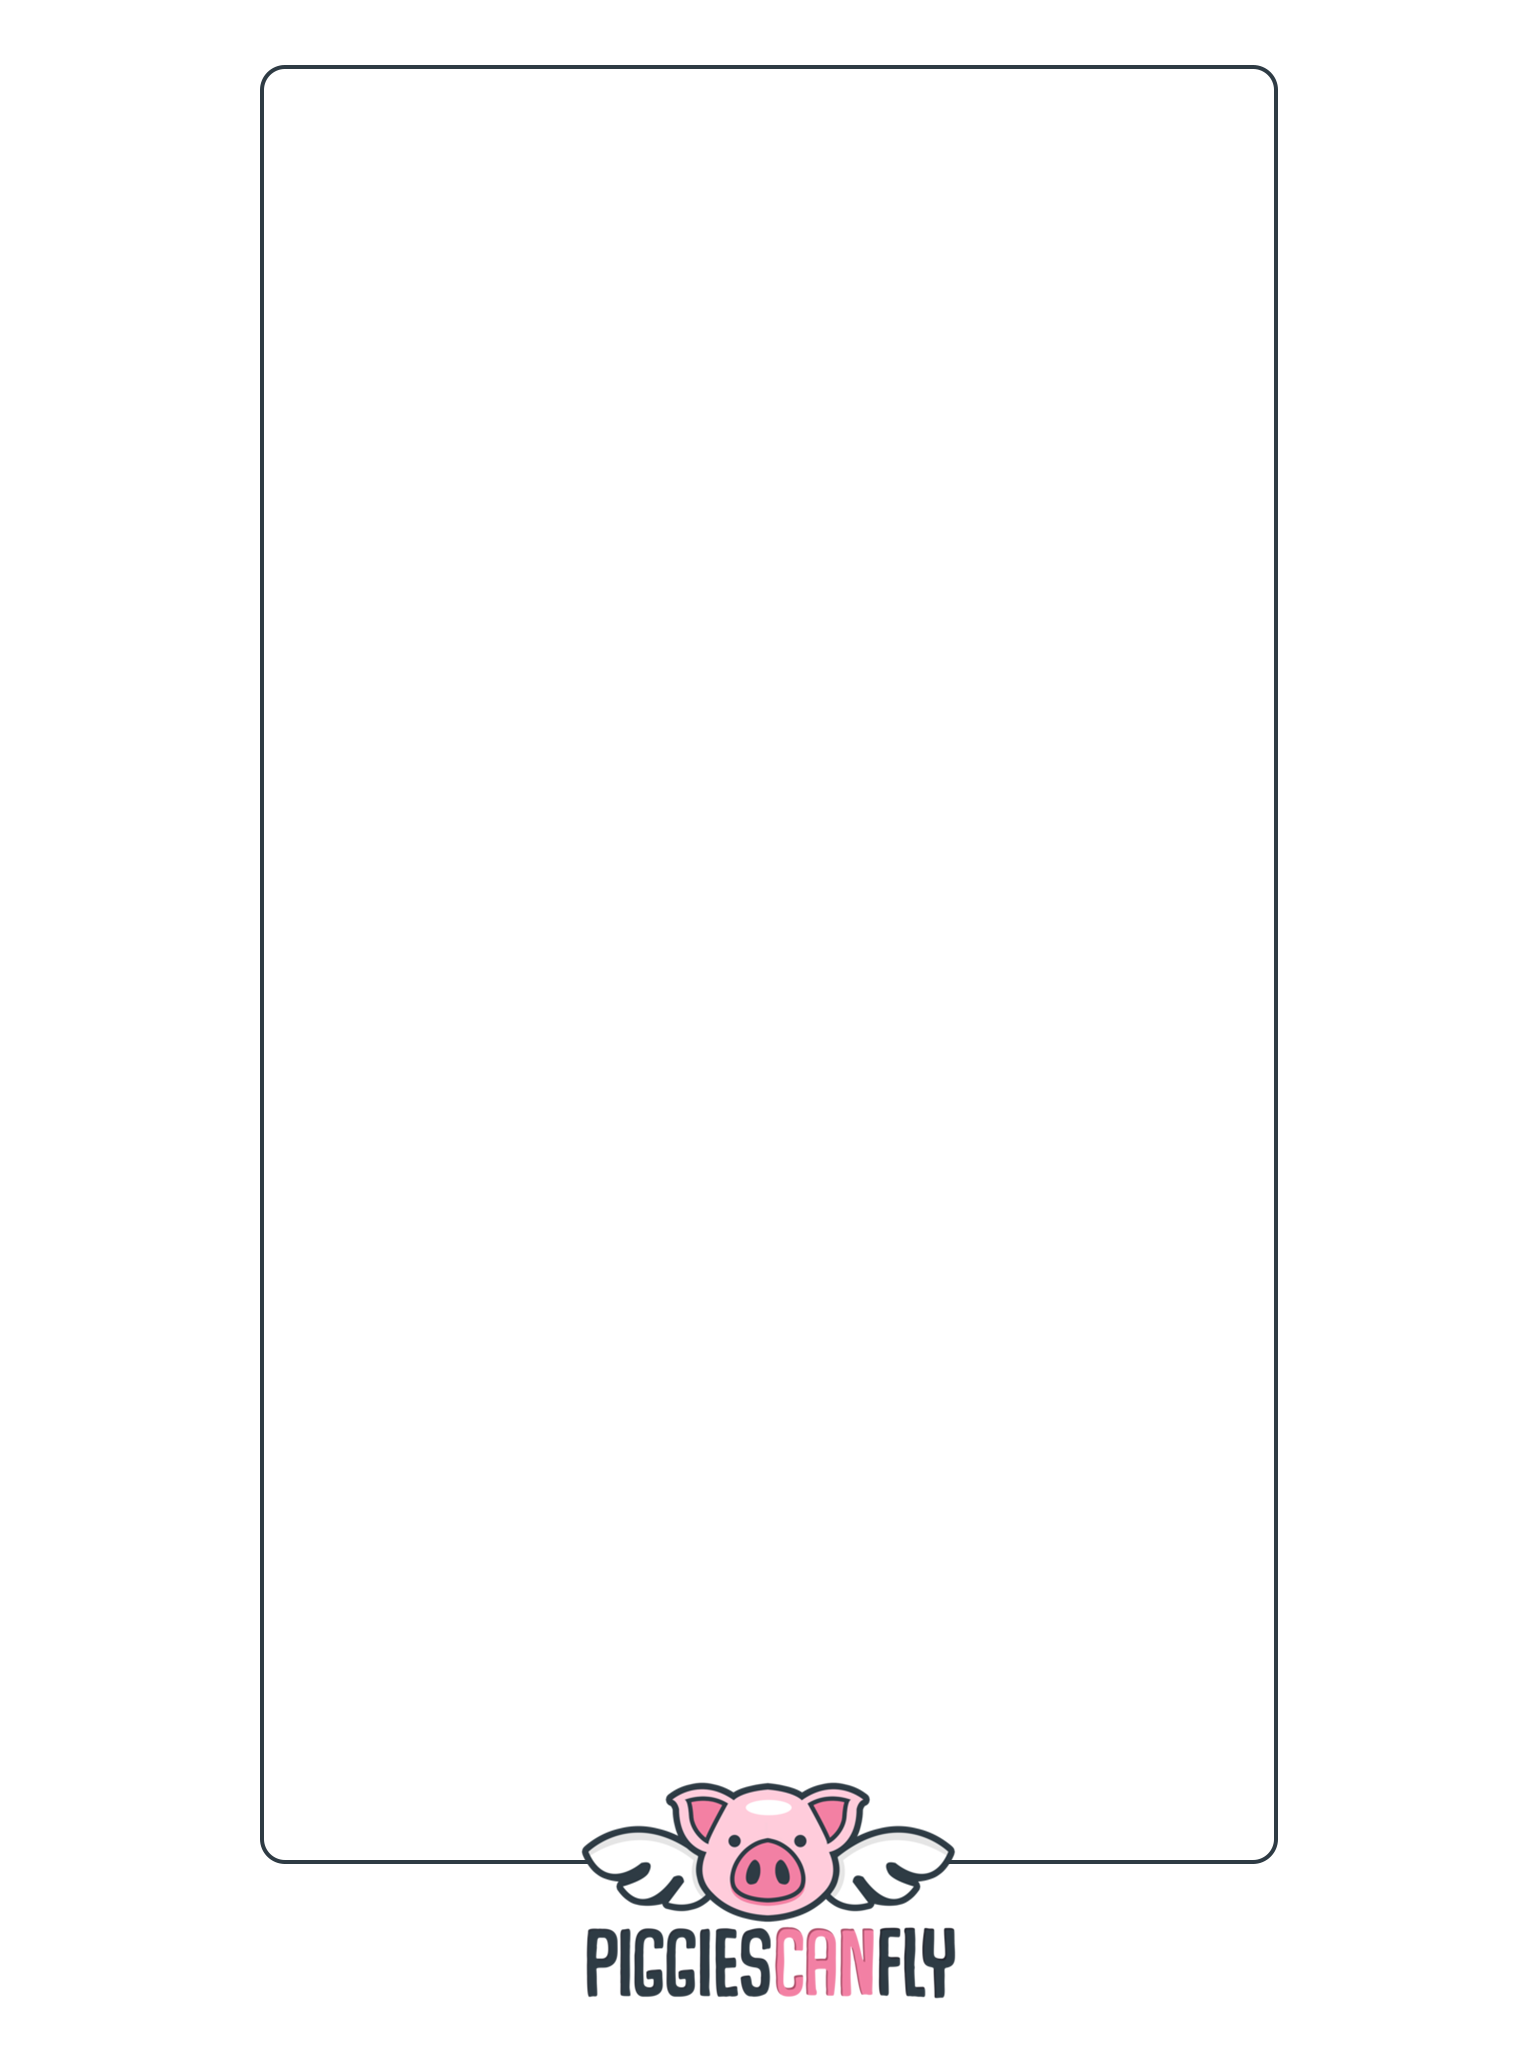
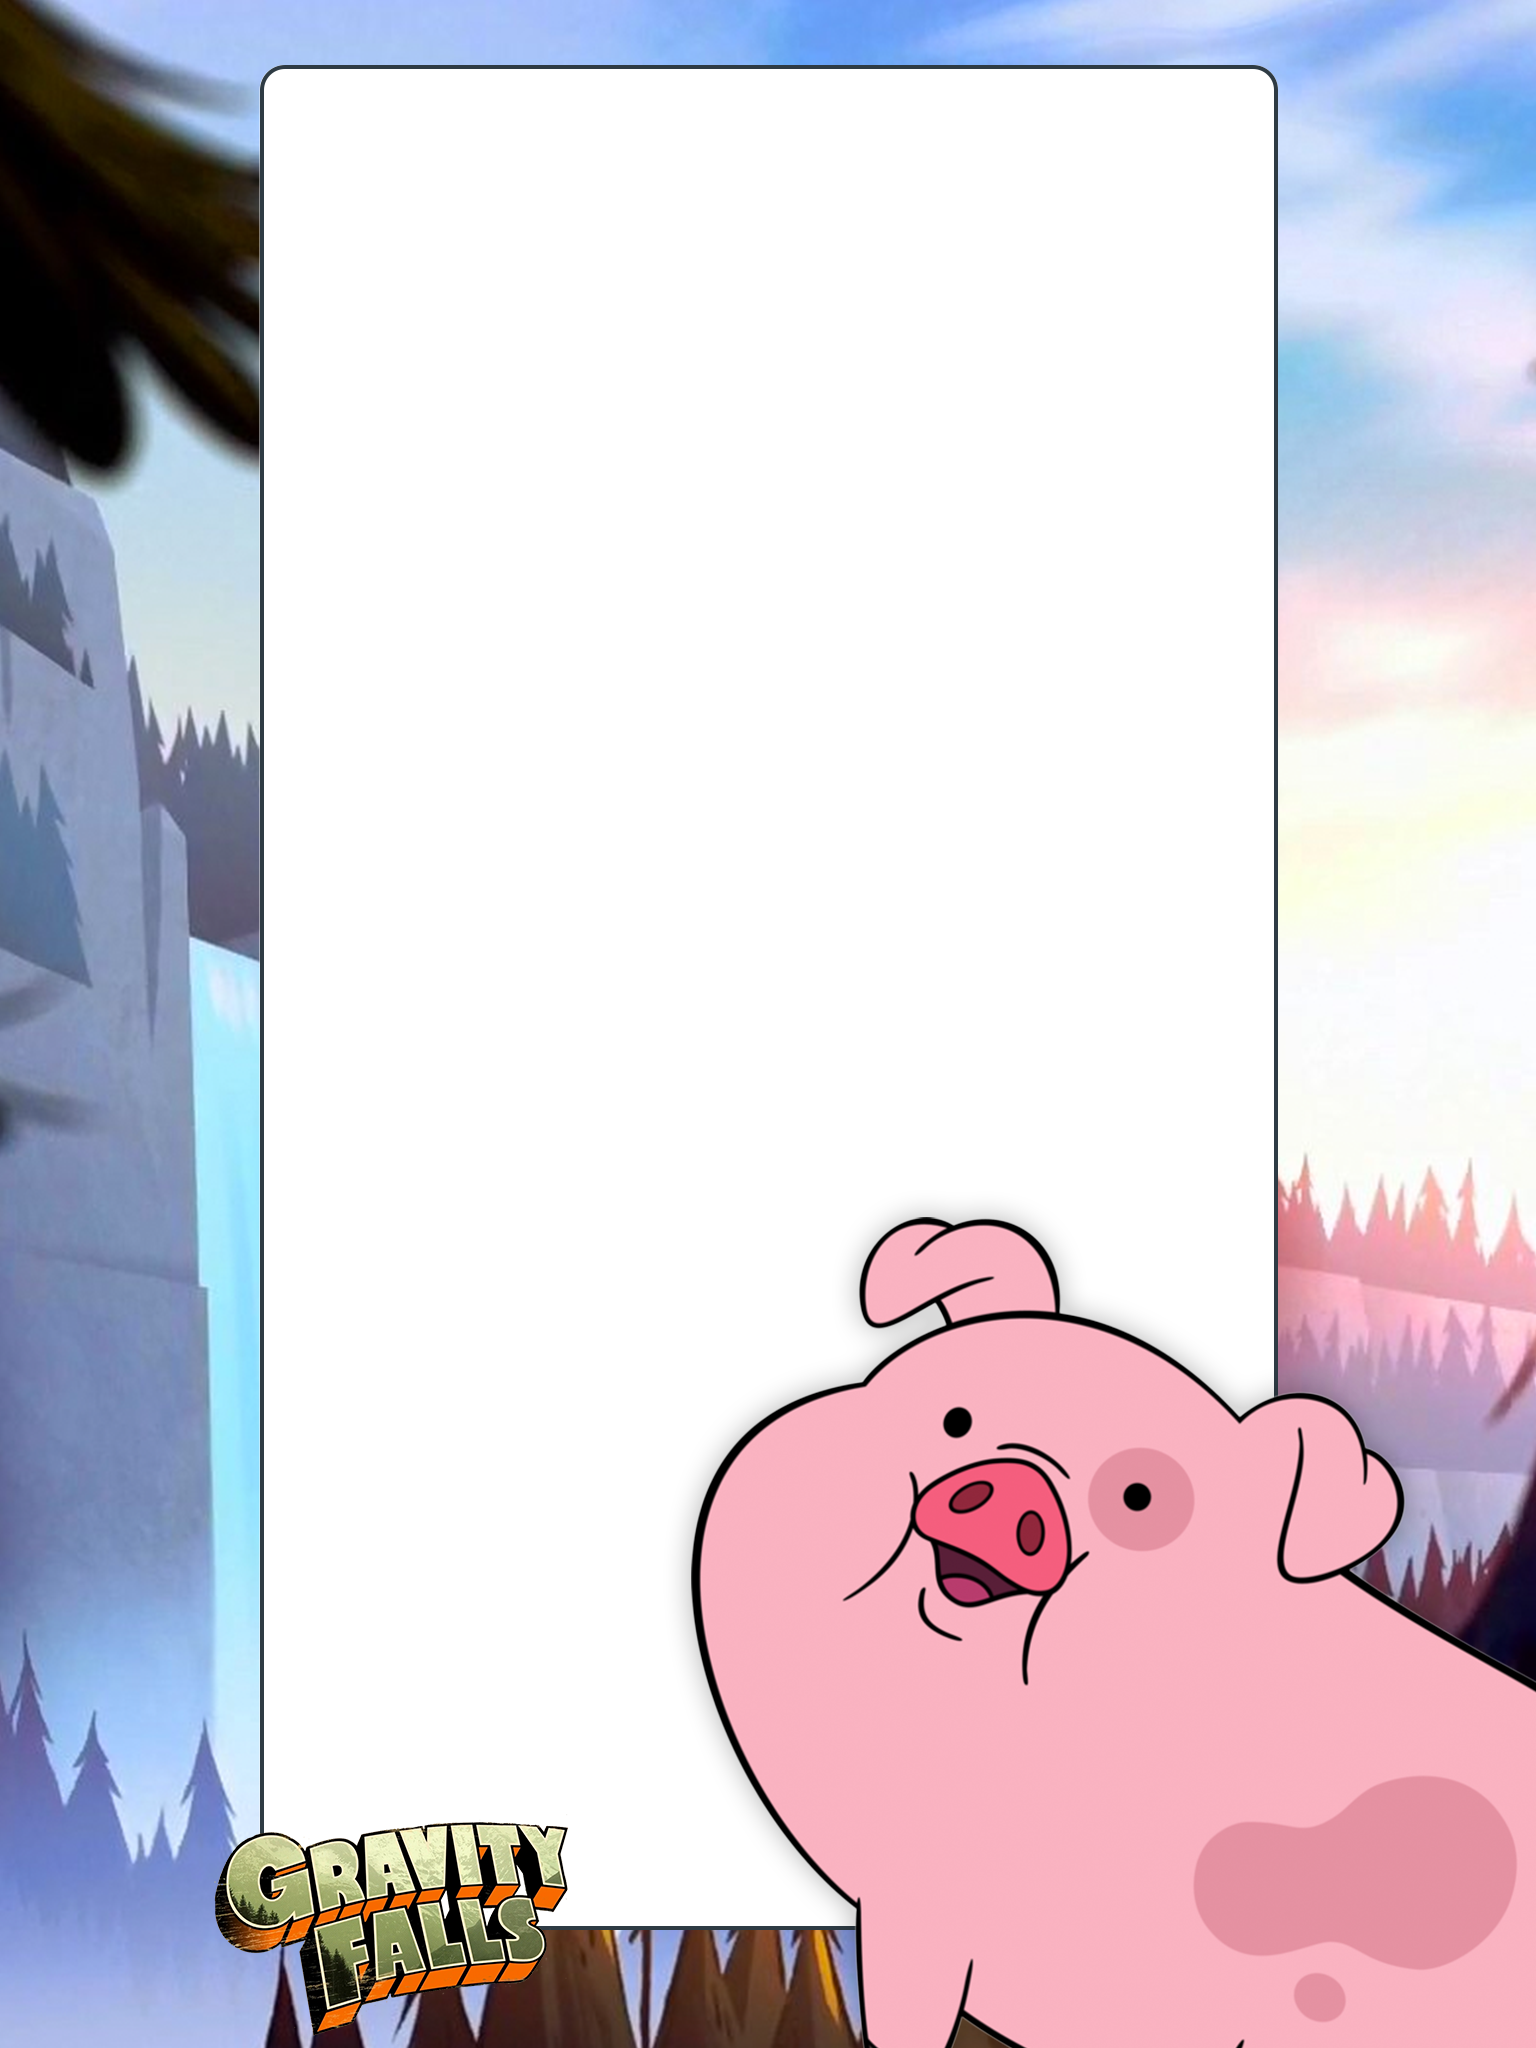
adjusted back button/new window. added new frames.

diff --git a/src/banner.js b/src/banner.js
@@ -87,7 +87,7 @@ class Banner extends Component {
         <div className='content-block-img'></div>
 
         <div id='banner-container'>
-          <Link to='/demos/photoshare/home' target='_blank'>
+          <Link to='/demos/photoshare/home'>
             <div className='banner-content'>
               {this.images('173', '218')}
             </div>

diff --git a/src/Booth.js b/src/Booth.js
@@ -20,7 +20,6 @@ class Booth extends Component {
     this.createCanvas();
     console.log('something is happening on booth page.');
     video = document.getElementById('video');
-
   };
   
   componentWillUnmount() {
